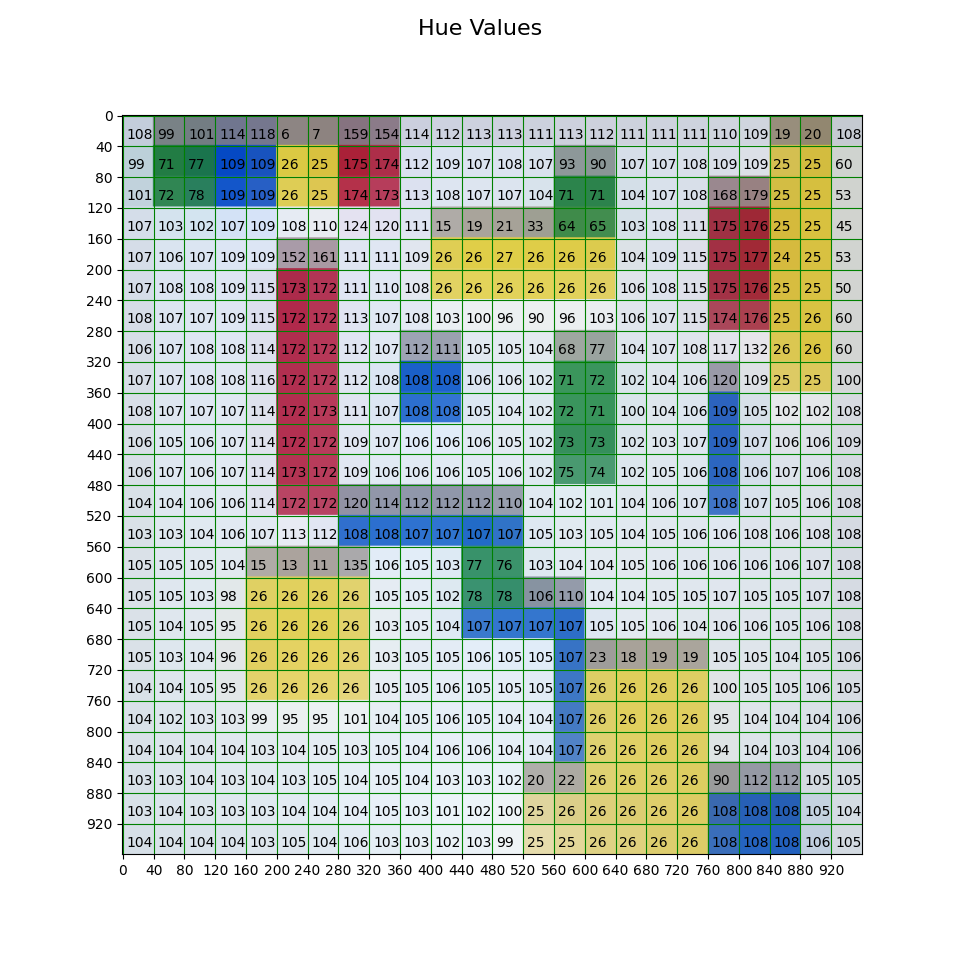
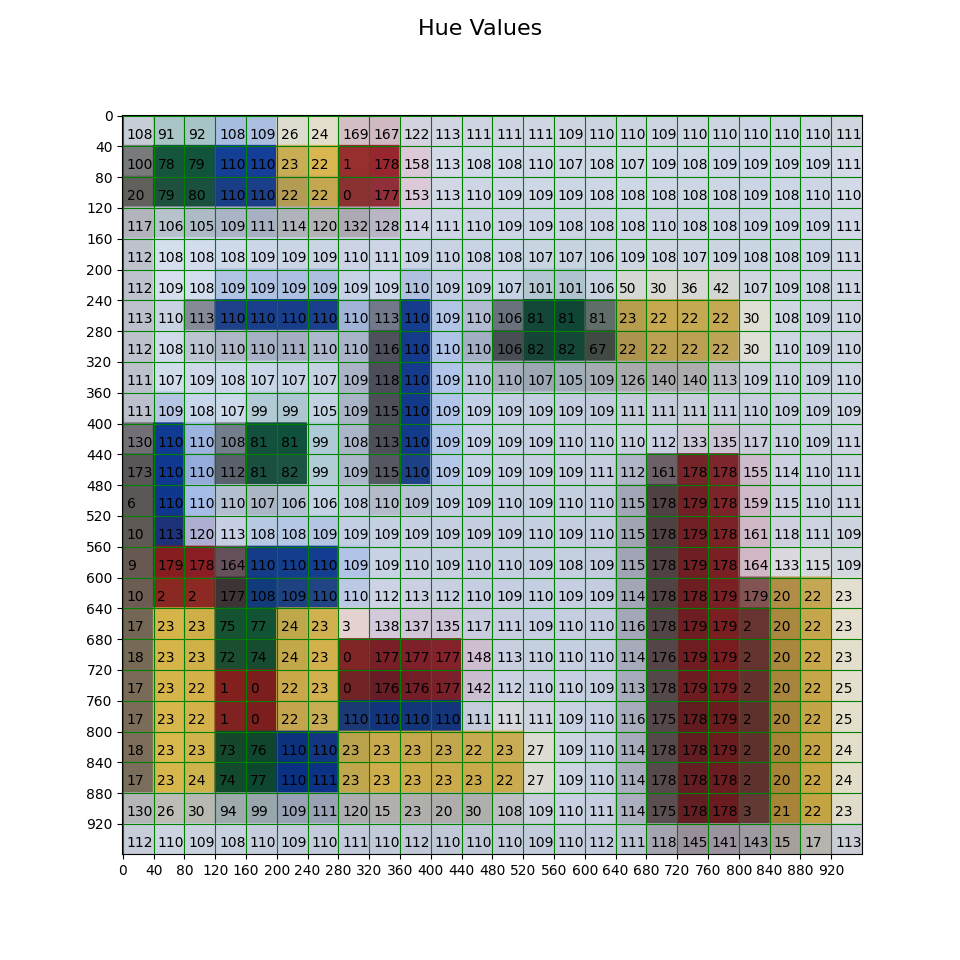
Added improved recogniser for red

diff --git a/colorExperiments.py b/colorExperiments.py
@@ -20,13 +20,13 @@ from PIL import Image
 studCount = 24
 
 # Load image into CV
-originalImg = cv2.imread('images/image1.jpg',1)
+originalImg = cv2.imread('images/iphone test.jpeg',1)
 
 #Corner Coordinates
-topLeft = np.array([922,711])
-topRight = ([1700,695])
-bottomLeft =([931,1497])
-bottomRight =([1724,1484])
+topLeft = np.array([396,227])
+topRight = ([771,228])
+bottomLeft =([386,601])
+bottomRight =([772,610])
 pt1 = np.float32([topLeft,topRight,bottomLeft,bottomRight])
 
 # Set height and width of final image
@@ -46,15 +46,20 @@ cv2.imwrite('images/resizedImg.png', resizedImg)
 hsvImg = cv2.cvtColor(resizedImg,cv2.COLOR_BGR2HSV)
 
 #returns a 1d array containing the average hsv values for  given 3d array
-def averageHSV(array):
+# Slice hue is used for red and will add on 180 to values below 90
+def averageHSV(array,sliceHue = False):
     hueTot = 0
     satTot = 0
     valTot = 0
 
     for rowIndex in range(array.shape[0]):
         for colIndex in range(array.shape [1]):
+            hueValue = array[rowIndex,colIndex,0]
+            if (sliceHue) and (hueValue<90):
+                hueValue += 180
+                print(hueValue)
 
-            hueTot += array[rowIndex,colIndex,0]
+            hueTot += hueValue
             satTot += array[rowIndex,colIndex,1]
             valTot += array[rowIndex,colIndex,2]
 
@@ -69,7 +74,12 @@ def averageHSV(array):
 greenCalib = averageHSV(hsvImg[1:3,1:3])
 blueCalib = averageHSV(hsvImg[1:3,3:5])
 yellowCalib = averageHSV(hsvImg[1:3,5:7])
-redCalib = averageHSV(hsvImg[1:3,7:9])
+redCalib = averageHSV(hsvImg[1:3,7:9],sliceHue = True)
+
+# Special red hue calculation due to centre at 180
+
+
+
 
 print("Green calibration is {}".format(greenCalib))
 print("Blue calibration is {}".format(blueCalib))
@@ -109,7 +119,7 @@ cv2.imwrite('GreenMasks/GreenBricks.png', greenBricks*255)
 
 blueHueRange = 10
 blueSatRange = 80
-blueBriRange = 25
+blueBriRange = 28
 
 blueHueMin = blueCalib[0]-blueHueRange
 blueHueMax = blueCalib[0]+blueHueRange
@@ -139,7 +149,7 @@ cv2.imwrite('BlueMasks/blueBricks.png', blueBricks*255)
 
 yellowHueRange = 3
 yellowSatRange = 115
-yellowBriRange = 30
+yellowBriRange = 38
 
 yellowHueMin = yellowCalib[0]-yellowHueRange
 yellowHueMax = yellowCalib[0]+yellowHueRange
@@ -168,12 +178,19 @@ cv2.imwrite('YellowMasks/yellowBricks.png', yellowBricks*255)
 
 
 redHueRange = 5
-redSatRange = 42
-redBriRange = 25
+redSatRange = 36
+redBriRange = 55
 
 redHueMin = redCalib[0]-redHueRange
 redHueMax = redCalib[0]+redHueRange
-redHueMask = cv2.inRange(hsvImg, np.array([redHueMin,0,0]), np.array([redHueMax,255,255]))
+
+# Special accounting for red due to looping at 180
+if (redHueMax >180) and (redHueMin<180):
+
+    redHueMaskMin = cv2.inRange(hsvImg, np.array([redHueMin,0,0],dtype='uint8'), np.array([180,255,255],dtype='uint8'))
+    redHueMaskMax = cv2.inRange(hsvImg, np.array([0,0,0],dtype='uint8'), np.array([redHueMax-180,255,255],dtype='uint8'))
+    redHueMask = redHueMaskMin+redHueMaskMax
+
 cv2.imwrite('RedMasks/redHueMask.png', redHueMask)
 
 redSatMin = redCalib[1]-redSatRange
@@ -214,7 +231,6 @@ for rowIndex in range(studArray.shape[0]):
         elif (redBricks[rowIndex,colIndex]==1):
             studArray[rowIndex,colIndex] = 4
 
-print(studArray)
 
 
 
